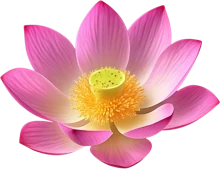
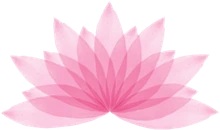
Cursor: new lotus artwork, smaller and more minimal
Swap in the client's lotus, trimmed to its alpha bounds (the source was
mostly empty canvas) and exported at 220px/9KB. Drop the petal from 40px
to 24px with a 0.5-1.0 scale range, so they render ~12-24px, and soften
the drop shadow to suit the smaller size.

diff --git a/src/components/PetalCursor.tsx b/src/components/PetalCursor.tsx
@@ -48,7 +48,7 @@ export function PetalCursor() {
       p.rot = Math.random() * 360;
       p.vrot = (Math.random() - 0.5) * 7;
       p.life = 1;
-      p.size = 0.6 + Math.random() * 0.7;
+      p.size = 0.5 + Math.random() * 0.5; // small + minimal: ~12–24px rendered
     };
 
     const onMove = (e: MouseEvent) => {
@@ -111,8 +111,8 @@ export function PetalCursor() {
             src="/cursor-lotus.webp"
             alt=""
             draggable={false}
-            className="block w-[40px] max-w-none select-none"
-            style={{ filter: "drop-shadow(0 2px 6px rgba(214,67,122,0.35))" }}
+            className="block w-[24px] max-w-none select-none"
+            style={{ filter: "drop-shadow(0 1px 3px rgba(214,67,122,0.25))" }}
           />
         </div>
       ))}
